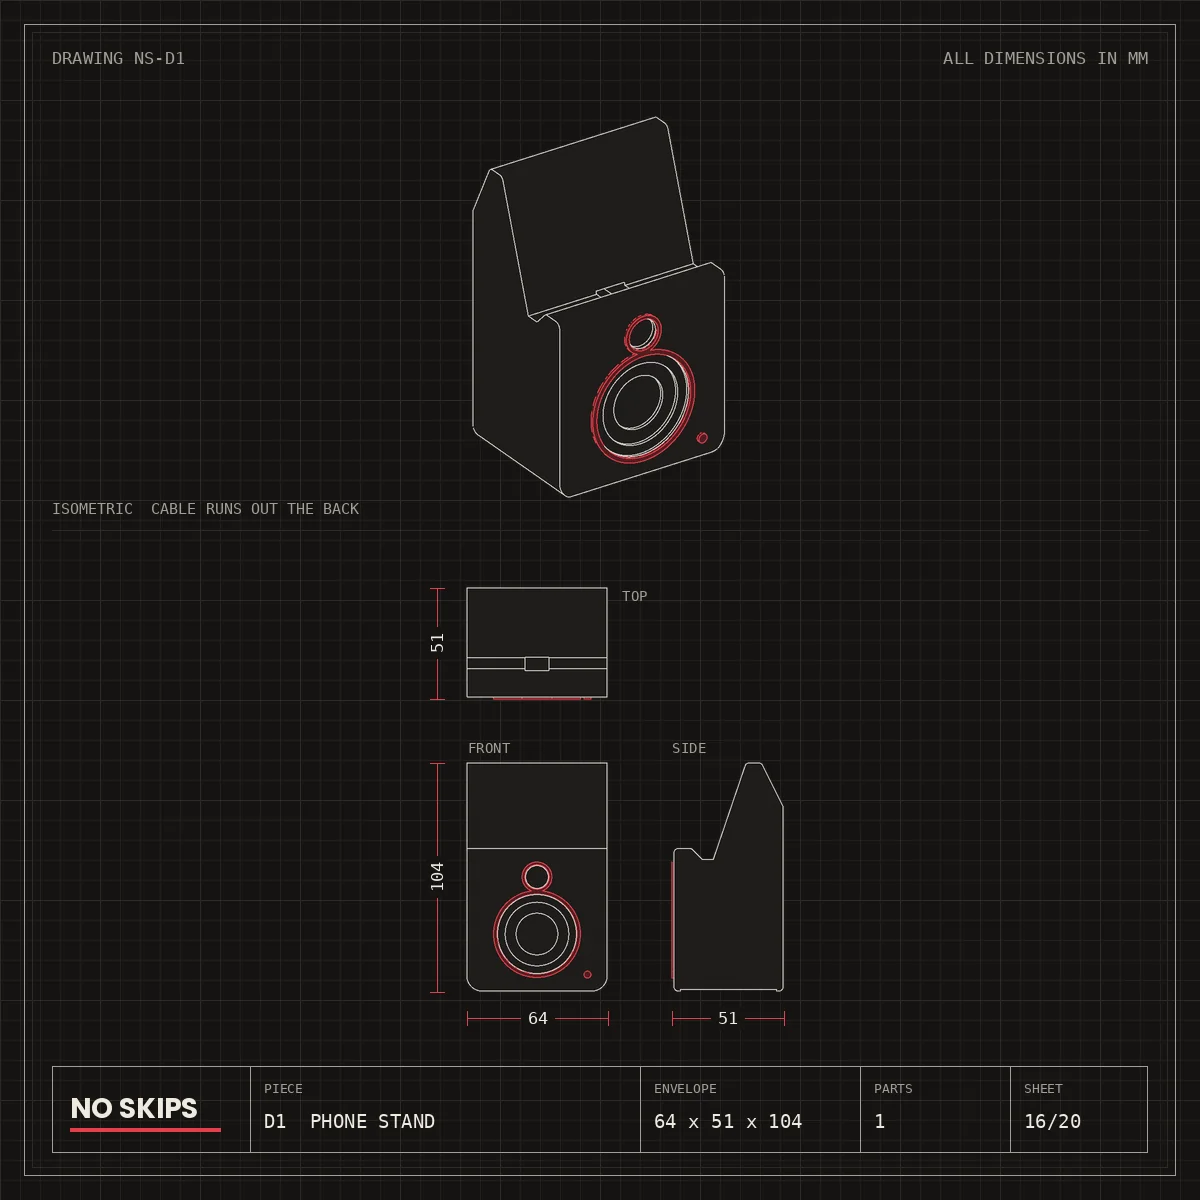
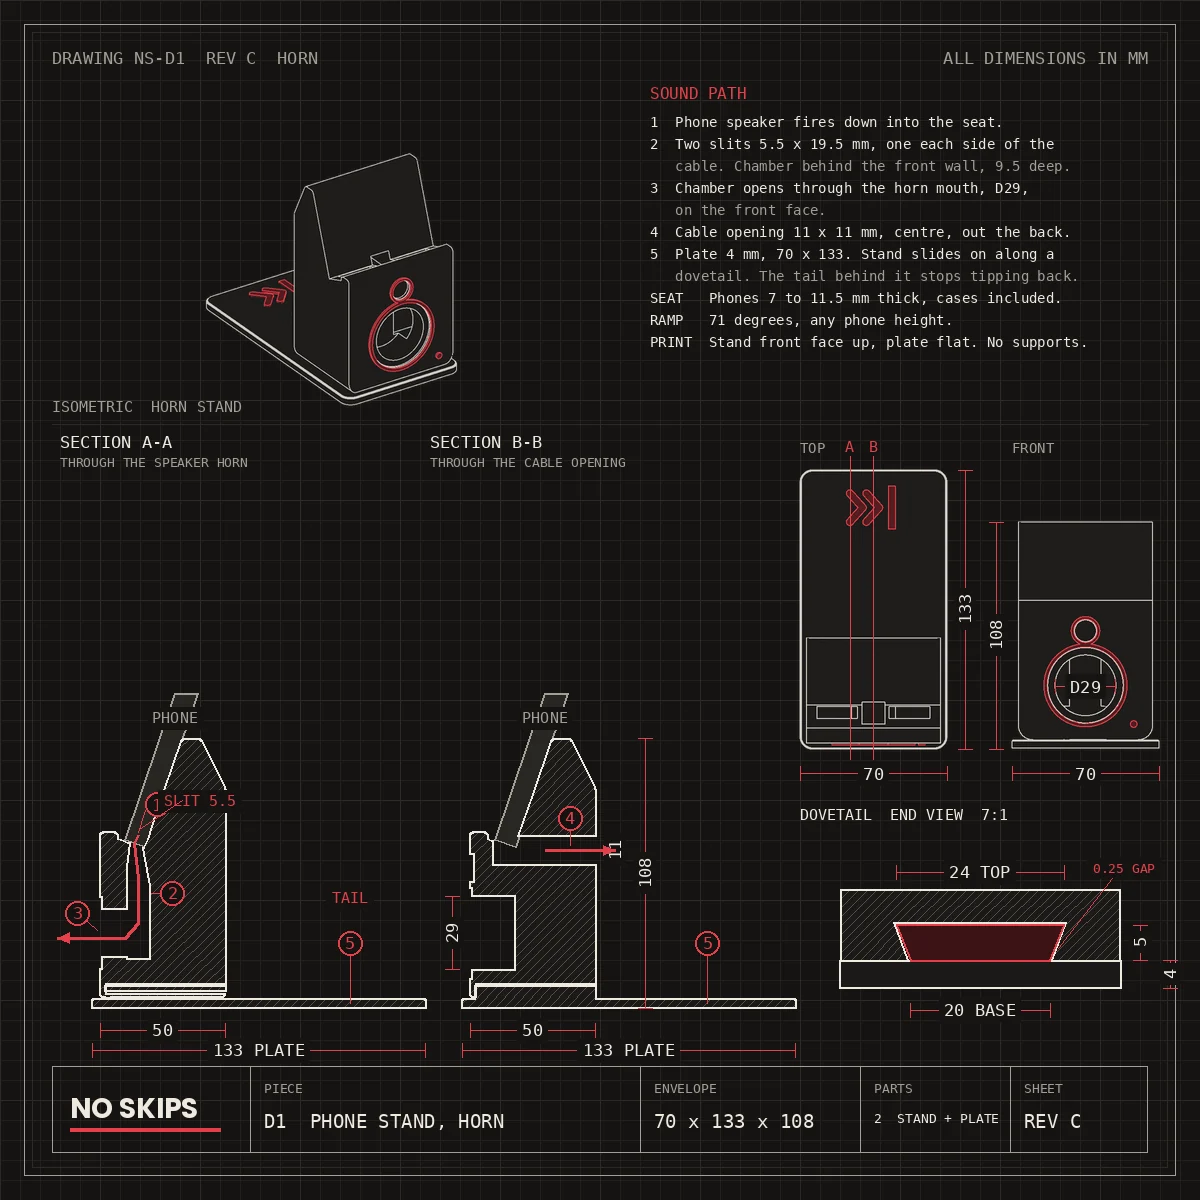
Monitor Phone Stand: horn version with weighted plate, Rs 1,499
Claude-Session: https://claude.ai/code/session_012J3bj3tc8WhaTG95FXikk2

diff --git a/index.html b/index.html
@@ -603,9 +603,9 @@ const P=[
  {id:"B4",side:"B",name:"Session Sign",price:1099,art:"sign",custom:true,line:"Tell the house you are tracking",build:"plate",
   desc:"A desk or shelf sign with one word and one light. Recording, On Air, Mixing, or anything up to twelve letters.",
   size:"140 x 60 x 3 mm plate, two feet",f:[["Your word","Recording"]],imgs:[["sign","On its feet"]]},
- {id:"D1",side:"D",name:"Monitor Phone Stand",price:899,line:"A studio monitor that holds your phone",badge:"New",
-  desc:"A small studio monitor for the desk, with a stepped woofer, a tweeter and a power light on the front. Your phone rests on top at 71 degrees, upright or sideways, and the charging cable drops through a channel and comes out the back. Fits phones in cases up to 11 mm thick.",
-  size:"64 x 51 x 104 mm, one piece",f:[],imgs:[["phonestand_pair","Red and ivory"],["phonestand","With a phone"]]},
+ {id:"D1",side:"D",name:"Monitor Phone Stand, Horn",price:1499,line:"A studio monitor that holds and amplifies your phone",badge:"New",
+  desc:"A small studio monitor for the desk with a hollow horn behind the woofer. Your phone rests on the seat at 71 degrees, upright or sideways, with its bottom speaker over two slits that feed the horn, so the sound is guided out of the front through the woofer opening, a little louder and more directed than the phone alone. The charging cable gets its own opening and runs out the back. Fits phones in cases from 7 to 11.5 mm thick, small iPhones to tall Androids. The stand slides onto a weighted plate by a dovetail, and the long tail behind it stops the stand tipping back when you tap the screen.",
+  size:"70 x 133 x 108 mm, stand and plate",f:[],imgs:[["phonestand","With a phone"],["phonestand_horn_exploded","Stand and plate"],["phonestand_horn_seat","Seat and slits"]]},
  {id:"D2",side:"D",name:"Cassette Box",price:849,custom:true,line:"A tape that holds your small things",badge:"New",build:"box",
   desc:"A box drawn from a real tape: reel hubs, a tape window, corner screws, the head slots and the seam between the two halves, with your own text on the label. Two compartments inside for picks, SD cards, earbud tips or a gig coin. The lid presses on and holds by friction, so there is no hinge to break.",
   size:"100 x 64 x 21 mm. Compartments 35 x 59 and 58 x 59 mm, 16 mm deep",f:[["Label text","Side A"]],

diff --git a/admin.html b/admin.html
@@ -60,7 +60,7 @@ button{font:inherit;cursor:pointer}
 
 <script>
 const OWNER="Prathaam-Modi",REPO="no-skips",BRANCH="main",PATH="stock.json";
-const PRODUCTS=[{"id": "C1", "name": "Vol. 01: The Studio"}, {"id": "C2", "name": "Studio Mini"}, {"id": "C3", "name": "Gig Coin"}, {"id": "C4", "name": "Mixtape Standees"}, {"id": "C5", "name": "Gain Knob"}, {"id": "A1", "name": "Soundwave Plate"}, {"id": "A2", "name": "Now Playing Plaque"}, {"id": "A3", "name": "Wristband Rail"}, {"id": "A4", "name": "Record Coasters"}, {"id": "A5", "name": "Song Tag"}, {"id": "B1", "name": "Pick Amp"}, {"id": "B2", "name": "Controller Riser"}, {"id": "B3", "name": "Name Tag"}, {"id": "B4", "name": "Session Sign"}, {"id": "D1", "name": "Monitor Phone Stand"}, {"id": "D2", "name": "Cassette Box"}, {"id": "D3", "name": "Reel Cord Winders"}, {"id": "D4", "name": "Vinyl Display Stand"}, {"id": "D5", "name": "Headphone Stand"}, {"id": "B5", "name": "Merch Run, 50 Tags"}];
+const PRODUCTS=[{"id": "C1", "name": "Vol. 01: The Studio"}, {"id": "C2", "name": "Studio Mini"}, {"id": "C3", "name": "Gig Coin"}, {"id": "C4", "name": "Mixtape Standees"}, {"id": "C5", "name": "Gain Knob"}, {"id": "A1", "name": "Soundwave Plate"}, {"id": "A2", "name": "Now Playing Plaque"}, {"id": "A3", "name": "Wristband Rail"}, {"id": "A4", "name": "Record Coasters"}, {"id": "A5", "name": "Song Tag"}, {"id": "B1", "name": "Pick Amp"}, {"id": "B2", "name": "Controller Riser"}, {"id": "B3", "name": "Name Tag"}, {"id": "B4", "name": "Session Sign"}, {"id": "D1", "name": "Monitor Phone Stand, Horn"}, {"id": "D2", "name": "Cassette Box"}, {"id": "D3", "name": "Reel Cord Winders"}, {"id": "D4", "name": "Vinyl Display Stand"}, {"id": "D5", "name": "Headphone Stand"}, {"id": "B5", "name": "Merch Run, 50 Tags"}];
 const API=`https://api.github.com/repos/${OWNER}/${REPO}/contents/${PATH}`;
 const $=id=>document.getElementById(id);
 let token="",sha=null,orig={},cur={},origClaimed=0;
